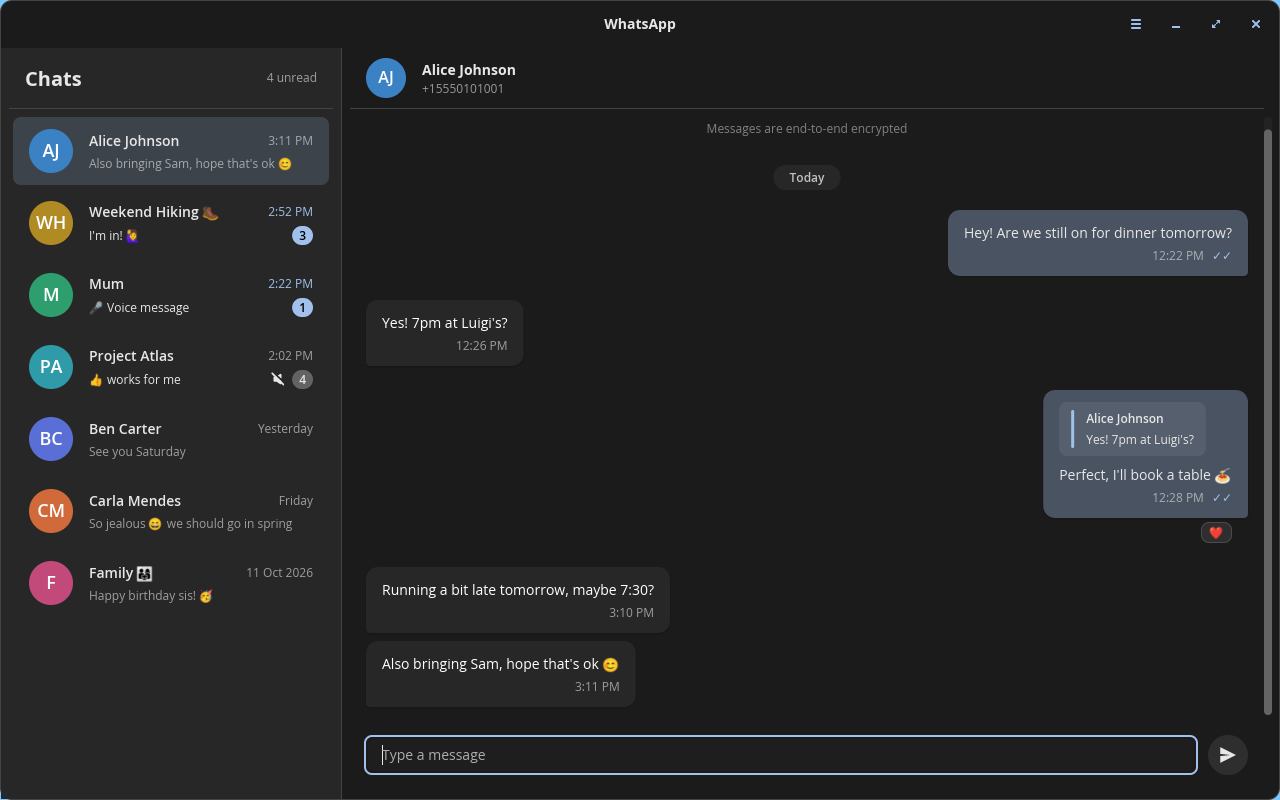
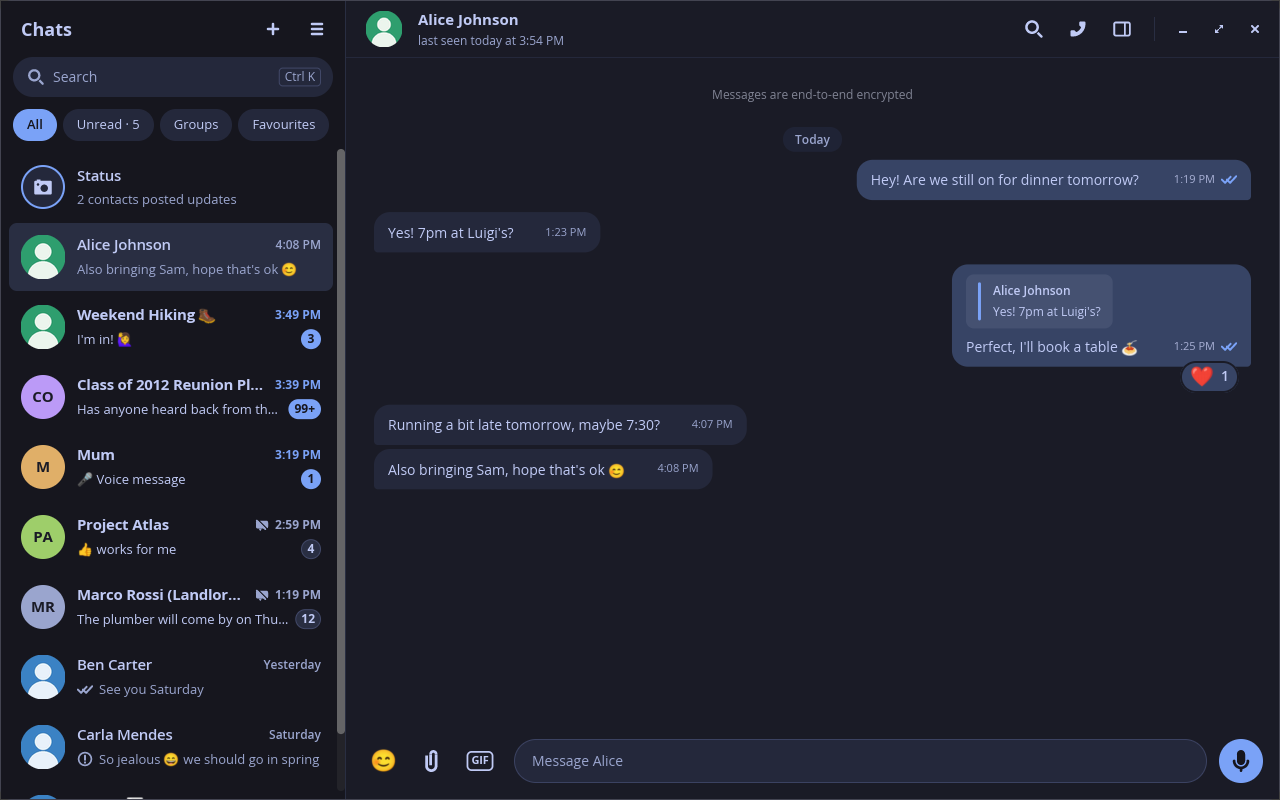
docs: screenshots, README and package metadata for 0.2.0
New demo-mode screenshots of the redesign (main window, emoji panel,
GIF and voice message, settings). README covers the new features, the
GIPHY key, the optional ffmpeg dependency and extra manual checks.
AppStream gains screenshots and a 0.2.0 release; the PKGBUILD lists
ffmpeg as an optional dependency.

diff --git a/README.md b/README.md
@@ -11,9 +11,16 @@ desktop, written in Rust with [libcosmic](https://github.com/pop-os/libcosmic).
 It pairs with your phone as a *linked device* (the same mechanism as WhatsApp
 Web) using the [`whatsapp-rust`](https://crates.io/crates/whatsapp-rust)
 protocol library, so there is no browser, no Electron and no web view: just a
-single binary that follows your COSMIC theme and accent colour.
+single binary, in a Tokyo Night look by default or following your COSMIC theme
+and accent colour.
 
 ![WhatsApp for COSMIC in demo mode](docs/screenshots/fake-mode.png)
+
+| Emoji panel | GIFs and voice messages | Settings |
+|---|---|---|
+| ![Emoji panel](docs/screenshots/emoji-panel.png) | ![A GIF and a voice message](docs/screenshots/gif-and-voice.png) | ![Settings](docs/screenshots/settings.png) |
+
+All screenshots are of the built-in demo mode (`--fake`), not a real account.
 
 > **Disclaimer.** This project is not affiliated with, authorised or endorsed by
 > WhatsApp or Meta. Unofficial clients violate the WhatsApp Terms of Service and
@@ -23,36 +30,45 @@ single binary that follows your COSMIC theme and accent colour.
 
 ### 💬 Messaging
 - 🔗 **Linked-device pairing** — scan a QR code once; the session survives restarts and reconnects on its own after network drops
-- 👤 **Chat list** for direct chats and groups, with profile pictures, unread counts, mute state and the last message preview
+- 👤 **Chat list** for direct chats and groups, with profile pictures, unread badges, pin and mute icons, read ticks and the last message preview
+- 🏷 **Filters** — All, Unread, Groups and Favourites chips above the list; pin a chat to the top or add it to your favourites from its right-click menu (both are kept on this computer only)
+- ➕ **New chat** — start a chat with someone from your list or by phone number
 - 🧵 **Conversations** with quoted replies, group sender names, date separators and infinite scroll-back through local history
 - ✈ **Send text** (with replies) — optimistic sending with clear status icons: 🕓 sending → ✓ sent → ✓✓ delivered → ✓✓ read, plus retry when a send fails
+- 😀 **Emoji panel** in the composer — about 400 emoji by category; it stays open so you can pick several
 - ❤ **Reactions** — see everyone's, add your own from a quick bar or the full emoji picker, remove them again
-- 👀 **Read receipts** are sent when you open a chat; reading on your phone clears the unread count here too
+- 👀 **Read receipts** are sent when you open a chat; what you read or answer on your phone stops counting as unread here, and only messages that arrived after that keep their badge
+- 🟢 **Online, last seen and typing** under the name in the conversation header. As with WhatsApp Web, you appear online yourself while the window is focused (WhatsApp only shares other people's status with clients that are online)
+- ℹ **Contact details** panel for direct chats: picture, number, last seen, pin/favourite, call, search, delete
 - 📞 **Voice calls** — answer incoming calls (Accept/Decline banner, ringtone, notification) or place one from a chat's header; mute and hang up, with a call timer. Audio runs through the library's end-to-end-encrypted VoIP engine; your microphone and speaker are driven through cpal (ALSA/PipeWire). Video calls are not supported: an incoming video call is answered as voice only.
 - 📸 **Status updates** — a Status page shows your contacts' updates from the last 24 hours grouped by person (text, photos, videos) and lets you post your own text, photo or video status
 - 👥 **Groups** — create a group from your chats or by phone number; a group-info panel shows members and roles, and lets admins rename, set the description, add, remove, promote and demote; anyone can copy the invite link or leave
-- 🔍 **Search** chats by name and messages by text, caption or file name (Ctrl+F); a result opens the chat and outlines the message
+- 🔍 **Search** chats by name and messages by text, caption or file name (Ctrl+K or Ctrl+F); a result opens the chat and outlines the message
+- 🔎 **Search in a chat** — the magnifier in the conversation header steps through the matches in that chat
 - 🗑 **Delete** messages from the right-click menu — for you (synced to your phone) or, for your own messages, for everyone — and delete whole chats from the chat list
 
 ### 🖼 Media
 - 📷 **Images and stickers** inline (small previews first, full image fetched automatically), with a full-size viewer
 - 🎙 **Voice notes and audio** with in-app playback (OGG/Opus)
+- 🎤 **Record voice messages** — the microphone button records from your default input; send or discard
+- 🎞 **GIFs** — search [GIPHY](https://giphy.com) from the composer (needs your own free API key, see below) and send the one you pick; GIFs, yours and other people's, show as a picture that plays in place when clicked (needs `ffmpeg`)
 - 📄 **Documents and videos** with download and open
 - ⬇ **Save to Downloads** on every image, video and document, named the way WhatsApp names files (`WhatsApp Image 2026-10-27 at 2.02 PM.jpg`)
 - 📎 **Send files** — attach with the 📎 button (COSMIC file chooser) or drop files onto the window; pictures are resized and re-encoded like WhatsApp does, with an optional caption; videos, audio and documents go as they are
 
 ### 🖥 Desktop integration
 - 🔔 **Notifications** through COSMIC's notification daemon, with the sender's picture; one per chat that updates in place; click to open the chat; previews optional
-- 🔊 **New-message chime** — a short sound on every notification, with a Settings toggle
+- 🔊 **New-message sound** — a short chime on every notification, with a Settings toggle, a volume slider and the option to use your own sound file (MP3, WAV, OGG, Opus or FLAC)
 - 🧩 **App icon** for the COSMIC app library and dock
 - 🚀 **Start at login** (optional)
 - 🛑 **Graceful shutdown** on window close, SIGTERM (logout) and SIGINT
 
 ### 🎨 Look and feel
-- 🌙 **Dark theme by default**, with Light and Match-system options
+- 🌃 **Tokyo Night by default**, with Dark, Light and Match-system options that take their colours from your COSMIC theme and accent
+- 🪟 **No title bar** — the window buttons sit in the conversation header, and both pane headers drag the window
 - 😀 **Real colour emoji** everywhere
 - 🕐 **12-hour clock** and short dates ("12 Jan 2026")
-- 🎯 **Accent-tinted** outgoing bubbles that follow your COSMIC accent colour
+- 🎯 **Accent-tinted** outgoing bubbles
 
 ### 🔒 Data
 - 🔐 **Encrypted at rest** — the message history, the session with its Signal keys and the backend's index are SQLCipher databases (AES-256). The key is a random 256-bit value kept in your desktop keyring (Secret Service, e.g. gnome-keyring), fetched silently at launch; a copied database file is useless without it, and plain `sqlite3` refuses to open one. Databases from earlier versions are encrypted in place on first start
@@ -64,12 +80,13 @@ single binary that follows your COSMIC theme and accent colour.
 Requires stable Rust (1.94 or newer), `cmake` (for the bundled Opus build), the
 Wayland development libraries (`libxkbcommon`, `wayland`), ALSA, OpenSSL (for
 the bundled SQLCipher build), a running Secret Service keyring (gnome-keyring
-or KWallet) and a colour emoji font (`noto-fonts-emoji` on Arch).
+or KWallet) and a colour emoji font (`noto-fonts-emoji` on Arch). `ffmpeg` is
+optional: with it, GIFs play in place; without it they show as a still picture.
 
 ```sh
 cargo run --release -p wa-app            # real backend: scan the QR with your phone
 cargo run --release -p wa-app -- --fake  # built-in demo backend: no network, throwaway data
-cargo test --workspace                   # 150+ unit and integration tests, no network
+cargo test --workspace                   # about 200 unit and integration tests, no network
 ```
 
 With [`just`](https://github.com/casey/just):
@@ -92,6 +109,13 @@ cd packaging && makepkg -si
 ```
 
 Builds and installs `whatsapp-cosmic-git` from this repository.
+
+### GIF search
+
+GIF search uses the GIPHY API, which needs a key of your own. Create a free
+one at [developers.giphy.com](https://developers.giphy.com) and paste it into
+Settings → GIFs. Your search words are sent to GIPHY; the key is stored with
+the app's other settings, unencrypted.
 
 ### Where things live
 
@@ -165,13 +189,18 @@ crates/
     ├── src/main.rs               args, logging, launch
     ├── src/app.rs                cosmic::Application: state, update, view, subscriptions
     ├── src/backend_sub.rs        runs wa-core as an iced Subscription
-    ├── src/config.rs             settings (appearance, previews) via cosmic-config
-    ├── src/audio.rs              voice-note playback (rodio + Opus)
+    ├── src/config.rs             settings (appearance, notifications, GIPHY key) via cosmic-config
+    ├── src/tokens.rs             the redesign's colours and sizes (Tokyo Night)
+    ├── src/style.rs              palette for the active theme and shared widget styles
+    ├── src/audio.rs              voice-note and notification-sound playback (rodio + Opus)
+    ├── src/recorder.rs           voice message recording (cpal) and Ogg/Opus encoding
+    ├── src/giphy.rs              GIPHY search and download
+    ├── src/gifplay.rs            decodes GIF clips into frames with ffmpeg
     ├── src/fonts.rs              puts the colour emoji font ahead of monochrome fallbacks
     ├── src/signals.rs            SIGTERM/SIGINT → graceful quit
     ├── src/pages/                login (QR), sync, chats (list), conversation, settings
-    └── src/widgets/              message bubble, media (images/audio/files), reactions,
-                                  avatars, icons and shared styling
+    └── src/widgets/              message bubble, media (images/GIFs/audio/files), reactions,
+                                  emoji, avatars, icons and window controls
 resources/                        .desktop, AppStream metainfo, hicolor icons (SVG + PNG)
 packaging/PKGBUILD                Arch package
 docs/superpowers/                 the design spec and implementation plan this was built from
@@ -184,9 +213,9 @@ docs/superpowers/                 the design spec and implementation plan this w
   ordering (persist before forward, optimistic send, logout wipe), protocol →
   model conversion against real protobuf messages, UI state transitions, file
   naming, and more. Nothing talks to WhatsApp servers.
-- `--fake` exercises the full UI against the demo backend: seven chats with
-  text, replies, images, a sticker, a voice note, a document, reactions, an
-  unsupported message, failed sends and profile pictures.
+- `--fake` exercises the full UI against the demo backend: nine chats with
+  text, replies, images, a sticker, a GIF, a voice note, a document, reactions,
+  an unsupported message, failed sends, long names and profile pictures.
 - Real-account behaviour is checked by hand with the list below.
 
 ### Manual end-to-end checklist (real account)
@@ -204,6 +233,11 @@ docs/superpowers/                 the design spec and implementation plan this w
 - [ ] **Voice calls:** an incoming call rings (banner + notification), Accept connects with two-way audio, Mute silences the microphone, End hangs up on both sides; an outgoing call rings the phone and connects when answered; Decline and a cancelled call clear the banner
 - [ ] **Status:** a contact's text and photo updates appear on the Status page; posting a text and a photo status shows them on the phone's Status tab
 - [ ] **Groups:** create a group (it appears on the phone); rename it, set a description, add and remove a member, make and dismiss an admin, copy the invite link; leave a group
+- [ ] **Read elsewhere:** read some of a chat's unread messages on the phone; the badge here drops to the ones that arrived after; reply from the phone and it clears
+- [ ] **Presence:** a contact's "online" / "last seen" line appears under their name while the window is focused; "typing…" shows while they type
+- [ ] **Voice message:** record one with the microphone button; it arrives on the phone as a voice message and plays
+- [ ] **GIFs:** with a GIPHY key set, search, pick and send a GIF; it loops on the phone, and a GIF received from the phone plays here when clicked
+- [ ] **Notification sound:** the volume slider changes the loudness; a custom sound file plays and Reset restores the chime
 - [ ] **Reconnect:** disable networking for a minute, re-enable; the app reconnects and catches up
 - [ ] **Remote logout:** remove the linked device on the phone; the app returns to the QR screen
 - [ ] **Log out** from the app's menu wipes the local data
@@ -214,6 +248,8 @@ docs/superpowers/                 the design spec and implementation plan this w
   heavy lifting: pairing, the Signal protocol, media encryption, history sync.
 - [libcosmic](https://github.com/pop-os/libcosmic) and
   [iced](https://github.com/iced-rs/iced) for the UI.
+- GIF search is powered by [GIPHY](https://giphy.com); the colours are
+  [Tokyo Night](https://github.com/tokyo-night/tokyo-night-vscode-theme).
 - WhatsApp and the WhatsApp logo are trademarks of WhatsApp LLC; they are used
   here only to identify the service this client connects to.
 
